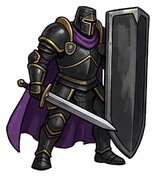
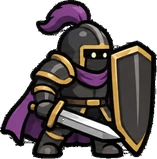
군주 근위대 5종을 메인 화풍으로 교체 (베타 1.299)
Claude-Session: https://claude.ai/code/session_01EFTEodMUbbTSUTixRFZg7z

diff --git a/docs/asset-prompts.md b/docs/asset-prompts.md
@@ -1604,3 +1604,5 @@ The attack poses, all facing right:
 
 Avoid: realistic proportions, tall lean adult body, long legs, small head, photo, 3d render, gradients, glow blur, smoke, glossy highlights, painterly texture, thin or white outline, ground line, checkerboard pattern, detailed face, detailed eyes, cropped or overlapping items, logo, watermark, any text other than the five captions.
 ```
+
+**13-11 ① 근위대 진행**: 5종 받음, 적용됨(베타 1.299). 모두 치비 비율·단순한 얼굴·같은 색조(검정·보라·금), 기병은 말도 치비, 궁병 활시위가 얼굴을 가로지르지 않아 첫 시안을 그대로 썼다. `assets/units/boss10_guard_*.png`(궁 163x149, 기병 223x205, 마법 157x172, 창 141x209, 검방 170x172 정도로 이전 높이에 가깝게 0.48배), 예전 그림은 `_old`로 보관. 남은 것: ② 초소병 서 있는 5종, ③ 초소병 공격 5종.
